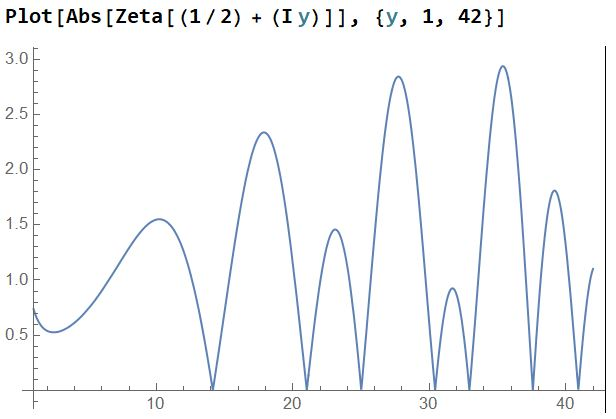
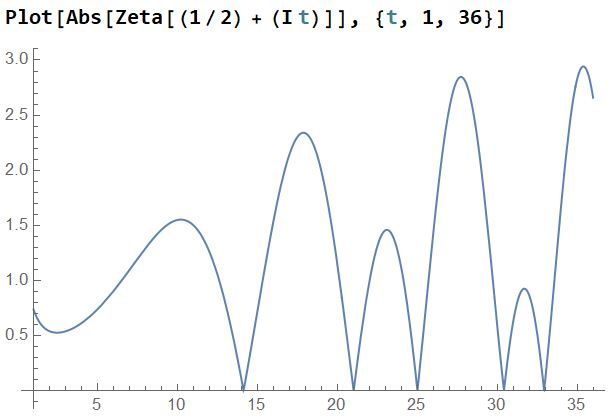
Handle more syntax and docs improvement

diff --git a/example/example023a_riemann_zeta_zeros.cpp b/example/example023a_riemann_zeta_zeros.cpp
@@ -14,23 +14,23 @@
 #include <iomanip>
 #include <iostream>
 #include <sstream>
-#include <tuple>
+#include <utility>
 
 namespace local
 {
   using complex_type = extended_complex::complex<boost::multiprecision::number<boost::multiprecision::cpp_dec_float<static_cast<unsigned>(UINT8_C(101))>, boost::multiprecision::et_off>>;
   using real_type    = typename complex_type::value_type;
 
-  real_type my_riemann_function(real_type y)
+  real_type my_riemann_function(const real_type& y)
   {
     static const real_type my_half { real_type { static_cast<int>(INT8_C(1)) } / static_cast<int>(INT8_C(2)) };
 
     return riemann_zeta(complex_type { my_half, y }).real();
   }
 
-  using bracket_type = std::tuple<real_type, real_type>;
+  using bracket_type = std::pair<real_type, real_type>;
 
-  auto find_bracketed_riemann_root(const bracket_type& bt_val) -> complex_type
+  auto find_riemann_root(const bracket_type& bt_val) -> complex_type
   {
     auto tol =
       [](const real_type& a, const real_type& b)
@@ -47,7 +47,7 @@ namespace local
     const std::pair<real_type, real_type>
       result
       {
-        boost::math::tools::toms748_solve(local::my_riemann_function, std::get<0>(bt_val), std::get<1>(bt_val), tol, max_iter)
+        boost::math::tools::toms748_solve(local::my_riemann_function, bt_val.first, bt_val.second, tol, max_iter)
       };
 
     {
@@ -67,9 +67,7 @@ namespace local
 auto example023a_riemann_zeta_zeros() -> bool
 {
   using local::real_type;
-  using local::complex_type;
   using local::bracket_type;
-  using local::find_bracketed_riemann_root;
 
   const bracket_type
     bt_val0
@@ -82,24 +80,26 @@ auto example023a_riemann_zeta_zeros() -> bool
     bt_val1
     {
       real_type { static_cast<unsigned>(UINT16_C(210)) } / static_cast<unsigned>(UINT8_C(10)),
-      real_type { static_cast<unsigned>(UINT16_C(212)) } / static_cast<unsigned>(UINT8_C(10)),
+      real_type { static_cast<unsigned>(UINT16_C(211)) } / static_cast<unsigned>(UINT8_C(10)),
     };
 
   const bracket_type
     bt_val2
     {
-      real_type { static_cast<unsigned>(UINT16_C(249)) } / static_cast<unsigned>(UINT8_C(10)),
+      real_type { static_cast<unsigned>(UINT16_C(250)) } / static_cast<unsigned>(UINT8_C(10)),
       real_type { static_cast<unsigned>(UINT16_C(251)) } / static_cast<unsigned>(UINT8_C(10)),
     };
 
-  // 14.134725141734693790457251983562470270784257115699243175685567460149963429809256764949010393171561012
-  const complex_type rz0 { find_bracketed_riemann_root(bt_val0) };
+  // rz0: 14.134725141734693790457251983562470270784257115699243175685567460149963429809256764949010393171561012
+  // rz1: 21.022039638771554992628479593896902777334340524902781754629520403587598586068890799713658514180151419
+  // rz2: 25.01085758014568876321379099256282181865954967255799667249654200674509209844164427784023822455806244
 
-  // 21.022039638771554992628479593896902777334340524902781754629520403587598586068890799713658514180151419
-  const complex_type rz1 { find_bracketed_riemann_root(bt_val1) };
+  using local::complex_type;
+  using local::find_riemann_root;
 
-  // 25.01085758014568876321379099256282181865954967255799667249654200674509209844164427784023822455806244
-  const complex_type rz2 { find_bracketed_riemann_root(bt_val2) };
+  const complex_type rz0 { find_riemann_root(bt_val0) };
+  const complex_type rz1 { find_riemann_root(bt_val1) };
+  const complex_type rz2 { find_riemann_root(bt_val2) };
 
   const real_type my_real_tol { std::numeric_limits<real_type>::epsilon() * 64 };
 

diff --git a/README.md b/README.md
@@ -128,27 +128,34 @@ $${\zeta}{\Bigl(}\frac{11}{10} + \frac{23}{10}i{\Bigr)}~{\approx}~0.632109498389
 
 is calculated.
 
-### The First Three High-Precision Zeros on the Critical Strip
+### Zeros on the Critical Strip
 
-It is believed that infinitely many non-trivial roots
-of the complex-valued Riemann-zeta function
-can be found on the critical strip of
+It is believed that infinitely many non-trivial roots (zeros)
+of the complex-valued Riemann-zeta function can be found
+on the critical strip of
 
 $$
 {\zeta}(z){\mbox{,}}
 $$
 
-where
+with
 
 $$
 z={\sigma}~+~it~=~{\frac{1}{2}}~+~it{\mbox{,}}
 $$
 
-and $t$ is the imaginary component of $z$.
+where the fixed value of $\frac{1}{2}$ is the real component of $z$
+and varying $t$ is the imaginary component of $z$.
 
 See also the image below obtained from
-[here](https://www.wolframalpha.com/input?i=Plot%5BAbs%5BZeta%5B%281%2F2%29%2B%28I+y%29%5D%5D%2C%7By%2C1%2C42%7D%5D).
-It shows a graph of the absolute value of the complex-valued
+[WolframAlpha(R)](https://www.wolframalpha.com/input?i=Plot%5BAbs%5BZeta%5B%281%2F2%29+%2B+%28I+t%29%5D%5D%2C+%7Bt%2C+1%2C+36%7D%5D).
+The following command has been used.
+
+```
+Plot[Abs[Zeta[(1/2) + (I t)]], {t, 1, 36}]
+```
+
+The graph shows the absolute value of the complex-valued
 Riemann-zeta function on a small section of the critical strip.
 Several of the first roots are visible.
 
